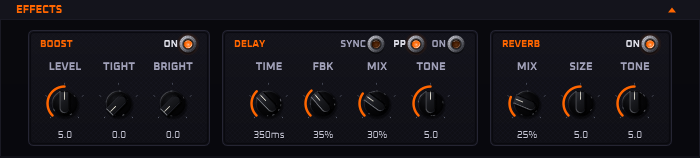
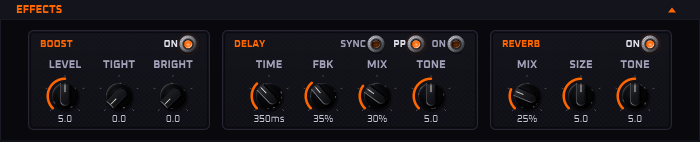
wip(gui): tight dials in the EFFECTS mockups
NotchKnob::setTightDial() sizes and places the dial square by its painted
extent (ticks reach 0.39 of it above the centre, the skirt and shadow ~0.31
below), so the name sits on the ticks and the value under the skirt. Same
54 px dial in a 66 px knob instead of 80. Mockup panels: 1 -> 120 px,
2 -> 116 px (was 156).

diff --git a/src/gui/EffectsPanel.cpp b/src/gui/EffectsPanel.cpp
@@ -97,6 +97,7 @@ EffectsPanel::EffectsPanel()
                      &reverbMix, &reverbSize, &reverbTone })
     {
         styleKnob(*k, wearSeed++);
+        if (fxMockup()) k->setTightDial(true);
         addAndMakeVisible(*k);
     }
 
@@ -135,7 +136,7 @@ static juce::Rectangle<int> mockCard(int i)
     const int w[3] = { 2 * kCardPadX + 3 * kKnobW, 2 * kCardPadX + 4 * kKnobW + 20, 2 * kCardPadX + 3 * kKnobW };
     const int total = w[0] + w[1] + w[2] + 2 * kCardGap;
     // 1: header 24 + knobs 80 + pads -> 116 tall; 2: legend overhang 12 + 12 + 80 + 6 -> 110
-    const int h = fxMockup() == 1 ? 116 : 110;
+    const int h = fxMockup() == 1 ? 100 : 98;
     int x = 350 - total / 2;
     for (int j = 0; j < i; ++j) x += w[j] + kCardGap;
     return { x, 10, w[i], h };
@@ -245,8 +246,10 @@ void EffectsPanel::resized()
                 delaySyncTgl.setBounds(header.removeFromRight(56));
             }
             inner.removeFromTop(fxMockup() == 1 ? 0 : 0);
-            auto row = inner.withTrimmedBottom(kCardPadY).withSizeKeepingCentre(inner.getWidth(), kKnobH)
-                            .withY(inner.getBottom() - kCardPadY - kKnobH);
+            constexpr int kTightKnobH = 66;   // strip 26.8 + tightDialHeight(54) 37.8
+            static_assert(kTightKnobH >= NotchKnob::stripHeight(kKnobScale, true)
+                                         + NotchKnob::tightDialHeight(kKnobW), "tight knob too short");
+            auto row = inner.withHeight(kTightKnobH).withY(inner.getBottom() - kCardPadY - kTightKnobH);
             if (i == 0) layoutKnobRow(row, { &boostLevel, &boostTight, &boostBright });
             if (i == 1) layoutKnobRow(row, { &delayTime, &delayFb, &delayMix, &delayTone });
             if (i == 2) layoutKnobRow(row, { &reverbMix, &reverbSize, &reverbTone });

diff --git a/src/gui/NotchKnob.h b/src/gui/NotchKnob.h
@@ -54,6 +54,22 @@ public:
     void setEngravedReadout(bool engraved);
     static constexpr int kEngravedSaving = 4;
 
+    // Let the dial's empty margins overlap the text strip. drawRotarySlider
+    // paints nothing in the top kDialTopReach..0.5 or the bottom
+    // kDialBottomReach..0.5 of its square (the ticks reach 0.39 of it above the
+    // centre; below, the 270° sweep is open and the skirt and its shadow end
+    // ~0.31 down), so with this on the square is sized and placed by its painted
+    // extent: the name sits just above the ticks and the value just below the
+    // skirt. Same dial in less height.
+    void setTightDial(bool tight);
+    static constexpr float kDialTopReach    = 0.39f;
+    static constexpr float kDialBottomReach = 0.31f;
+    // Height of the painted part of a dial `side` px square, with tight dials.
+    static constexpr float tightDialHeight(float side)
+    {
+        return side * (kDialTopReach + kDialBottomReach);
+    }
+
     // Vertical room a knob needs to render in full *at scale 1.0*: the square
     // knob plus the readout + label strip. Lay one out shorter and the name is
     // drawn past the bottom edge and silently clipped — which is exactly what
@@ -128,6 +144,7 @@ private:
     float labelH      = kLabelHBase;
     float readoutMinW = kReadoutMinWBase;
     bool labelOnTop   = false;
+    bool tightDial    = false;
     bool engravedReadout = false;
 
     JUCE_DECLARE_NON_COPYABLE_WITH_LEAK_DETECTOR(NotchKnob)

diff --git a/src/gui/NotchKnob.cpp b/src/gui/NotchKnob.cpp
@@ -70,8 +70,24 @@ void NotchKnob::resized()
     {
         area.removeFromBottom(juce::roundToInt(stripH()));
     }
+    if (tightDial)
+    {
+        // Size the square by its painted extent and hang it from the area's
+        // top: its blank margins spill into the strips, which hold only text.
+        const int side = juce::jmin(area.getWidth(),
+                                    static_cast<int>(area.getHeight() / tightDialHeight(1.0f)));
+        const int top  = area.getY() - juce::roundToInt(side * (0.5f - kDialTopReach));
+        slider.setBounds(area.getCentreX() - side / 2, top, side, side);
+        return;
+    }
     const int side = juce::jmin(area.getWidth(), area.getHeight());
     slider.setBounds(area.withSizeKeepingCentre(side, side));
+}
+
+void NotchKnob::setTightDial(bool tight)
+{
+    tightDial = tight;
+    resized();
 }
 
 void NotchKnob::paint(juce::Graphics& g)

diff --git a/src/gui/EffectsPanel.h b/src/gui/EffectsPanel.h
@@ -38,7 +38,7 @@ public:
     // too-short panel shows up as knob values drawn past the bottom edge and
     // silently clipped.
     static constexpr int panelHeight = 156;
-    static int height() { return fxMockup() == 1 ? 136 : fxMockup() == 2 ? 128 : panelHeight; }
+    static int height() { return fxMockup() == 1 ? 120 : fxMockup() == 2 ? 116 : panelHeight; }
 
     // Styles a knob as an EFFECTS knob: the amp row's satin pointer knob at
     // the cards' scale, name on top, engraved value, handling wear from
